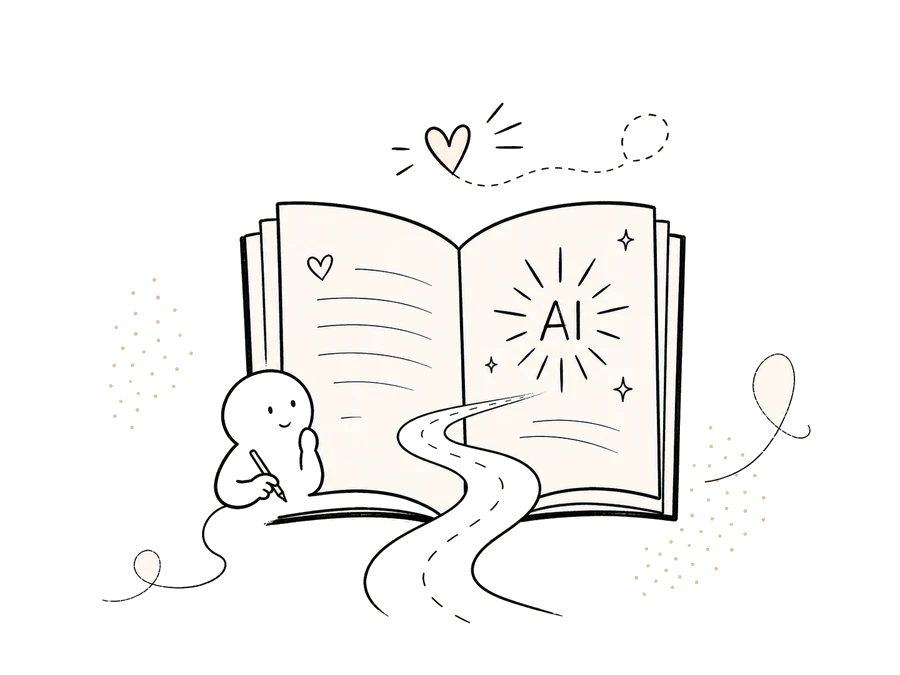
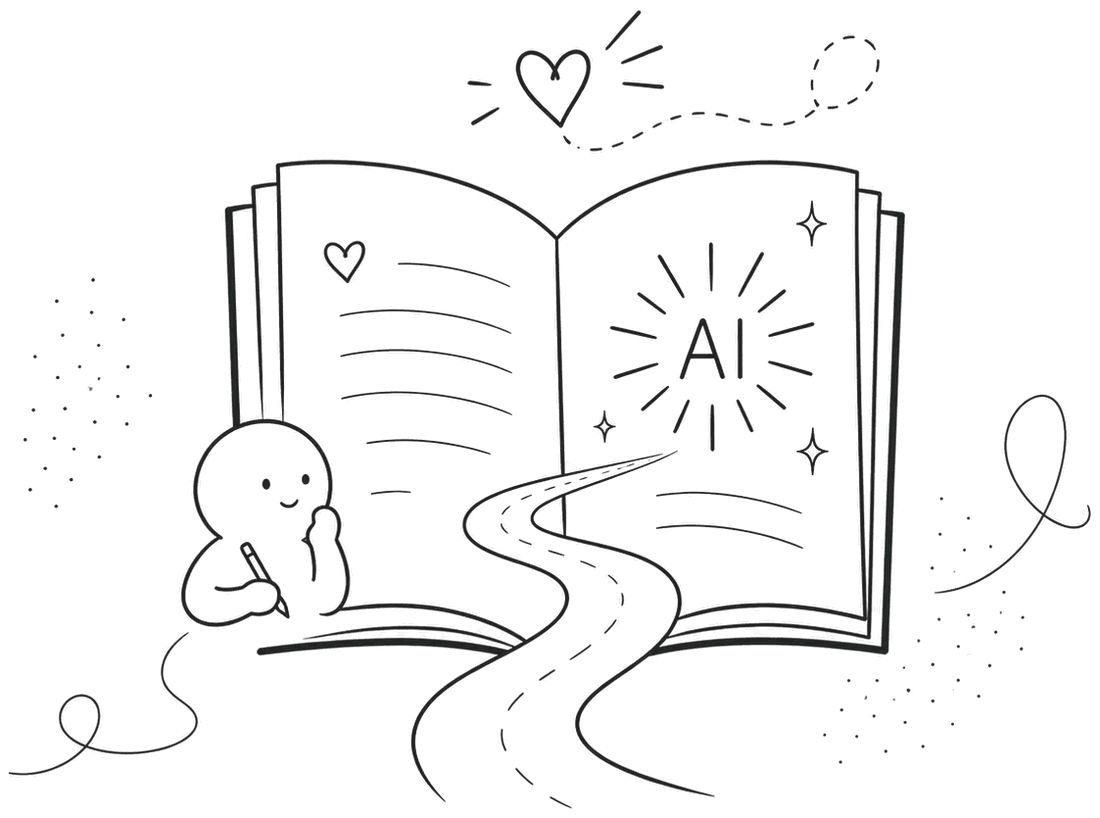
Swap in the new hero illustration
Replaces the hero art with the newer line drawing (winding path from the
reader to the AI page). Prepared for the page rather than dropped in as-is:

- The source PNG is opaque ink on a near-white ground, which would have read
  as a lighter box on the paper background. Knocked the ground out with a
  straight-alpha unpremultiply so the anti-aliased strokes survive.
- The drawing only occupied 79% x 73% of its canvas; trimmed to the ink
  bounding box (+8px) so it fills the 520px hero slot instead of floating
  small inside its own padding.
- The art is neutral grey, so colour is now a flat --ink-strong carried
  entirely by alpha. Visually identical, and the uniform RGB plane plus
  near-lossless encoding lands it at 59 KB for 1100x818 (max alpha
  deviation 8/255 vs lossless).

diff --git a/index.html b/index.html
@@ -262,7 +262,7 @@ table.cmp sup{font-size:10px;color:var(--text-soft)}
         </div>
       </div>
       <div class="heroart">
-        <img src="assets/hero-book.webp" width="900" height="675" alt="A reader taking notes beside an open book with AI radiating from its pages">
+        <img src="assets/hero-book.webp" width="1100" height="818" alt="A reader taking notes beside an open book, with a winding path leading to AI radiating from its pages">
       </div>
     </div>
 
